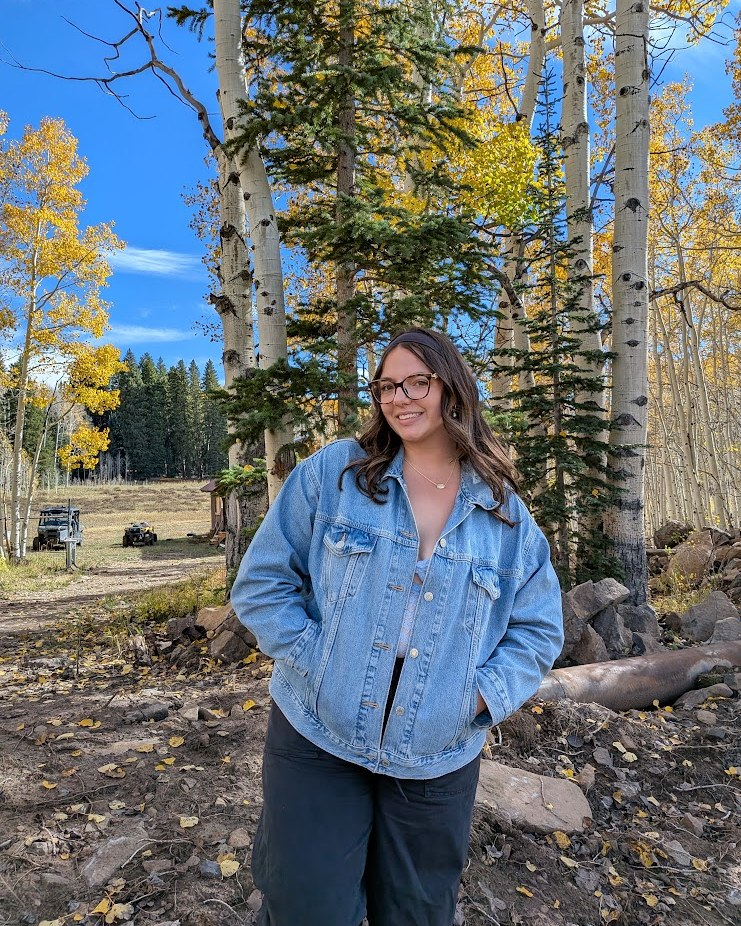
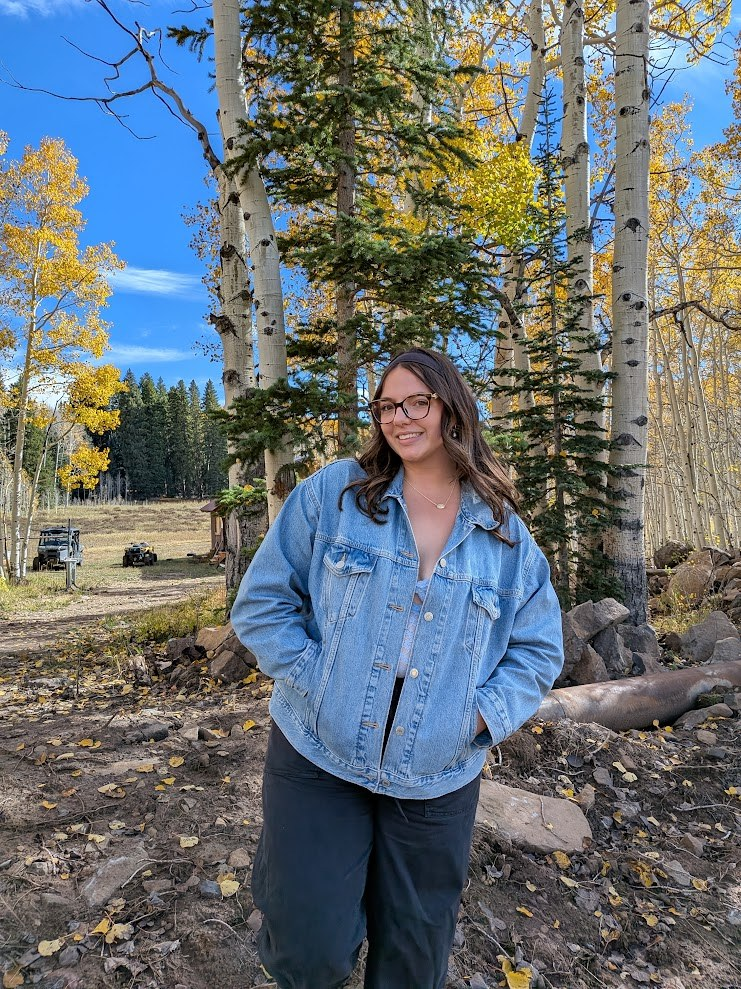
About: show more of the founder photo (full image, framed lower)
Claude-Session: https://claude.ai/code/session_01VGFGT5s4CaJF7ZN5Cdbd3y

diff --git a/about.html b/about.html
@@ -30,7 +30,7 @@
 <div class="announce"><a href="/birthday">First 50 to reserve get $10 off their next box</a></div>
 <header class="nav"><nav class="links nl" aria-label="Main"><a href="birthday.html">Shop</a><a href="about.html">About</a><a href="faq.html">FAQ</a></nav><a class="logo" href="index.html"><img class="lmark" src="/images/logo-confetti-b.svg" alt="" width="40" height="40"><span>Bash Buddy Co.</span></a><div class="nr"><a class="pill" href="signup.html">Join The Party!</a></div></header>
 <main class="ap">
-<section class="ap-hero"><div class="copy"><span class="ap-eye">About Bash Buddy Co.</span><h1>I loved to host.<br><i>I hated the hassle.</i></h1><p>Bash Buddy Co. started as a class project and this first box is just the beginning. Here&#39;s how it started.</p><p class="ap-sign">Payton<span>Founder</span></p></div><figure class="ap-photo"><img src="images/about-founder.jpg" alt="Payton, founder of Bash Buddy Co." width="741" height="926"></figure></section>
+<section class="ap-hero"><div class="copy"><span class="ap-eye">About Bash Buddy Co.</span><h1>I loved to host.<br><i>I hated the hassle.</i></h1><p>Bash Buddy Co. started as a class project and this first box is just the beginning. Here&#39;s how it started.</p><p class="ap-sign">Payton<span>Founder</span></p></div><figure class="ap-photo"><img src="images/about-founder.jpg" alt="Payton, founder of Bash Buddy Co." width="741" height="989" style="object-position:50% 75%"></figure></section>
 <section class="ap-story"><blockquote>It wasn&#39;t just me. People love hosting, but <i>hate the process.</i></blockquote><div class="t"><p>In college, every party I threw turned into a hassle. I drove all over town for plates, decorations, and supplies, and as a student, I just did not have that kind of time.</p><p>The more I talked to other hosts, the more I realized I wasn&#39;t the only one. That&#39;s where the idea for a whole party in one box began.</p></div></section>
 <section class="ap-box stmt"><span class="ap-eye">The idea</span><h2>So I put the whole party in one box.</h2><p>Decor, a party activity, a host guide, and a cleanup kit, all in one theme and shipped to your door.</p><a class="btn" href="birthday.html#inside">See what&#39;s inside</a></section>
 <section class="ap-how" id="how"><h2>Four steps.<br>Zero errands.</h2><ol><li><span>1</span><h3>Pick your box</h3><p>Start with the Birthday Bash, our first themed box.</p></li><li><span>2</span><h3>Get it shipped</h3><p>It ships right to your door.</p></li><li><span>3</span><h3>Set it up</h3><p>Follow the host guide and hang everything with damage-free strips.</p></li><li><span>4</span><h3>Party, then pack up</h3><p>The cleanup kit and takedown checklist get your space back in about 10 minutes.</p></li></ol></section>
